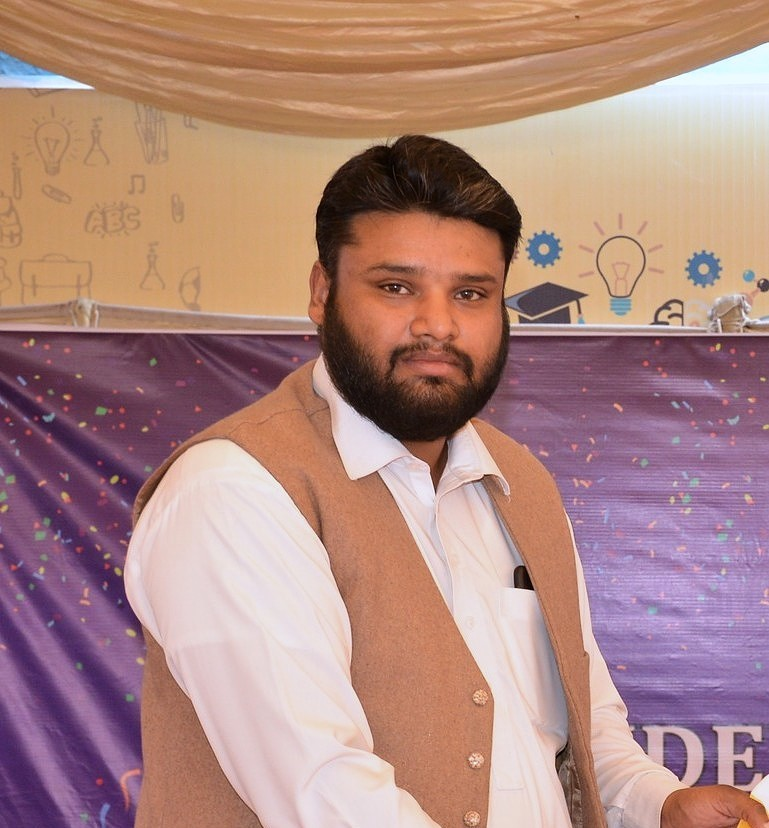
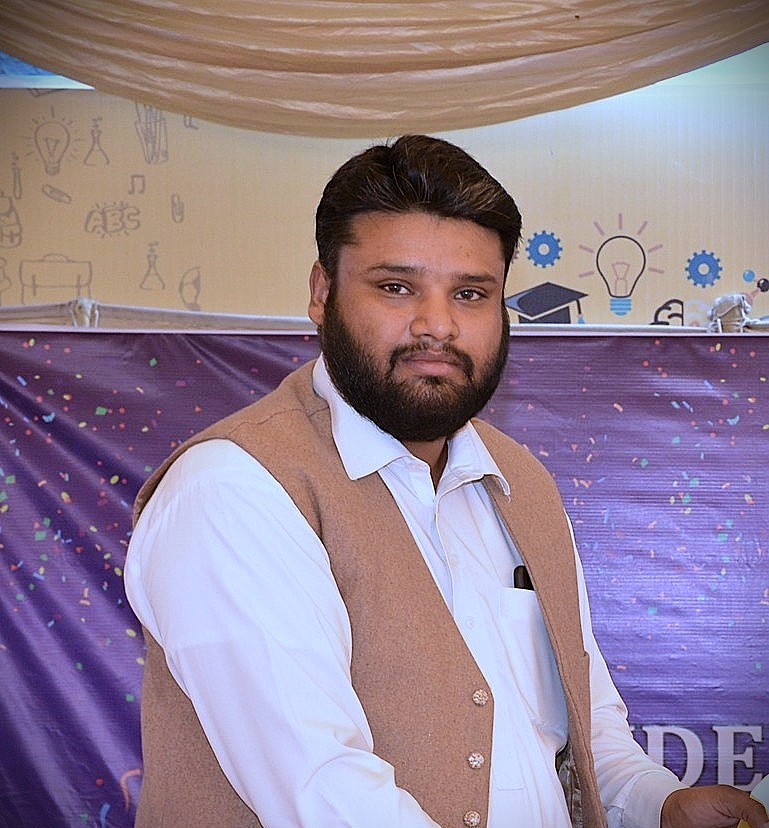
doneit

diff --git a/index.html b/index.html
@@ -106,7 +106,7 @@
                     </div>
                     <div class="about-image reveal">
                         <div class="img-wrapper">
-                            <img src="images/gallery_library_1773337756427.png" alt="Students studying in library"
+                            <img src="images/now.jpg" alt="Students studying in library"
                                 class="rounded-img shadow-hover">
                             <div class="experience-badge bounce-anim">
                                 <span class="badge-num"><span class="counter-val" data-target="25">25</span>+</span>

diff --git a/js/script.js b/js/script.js
@@ -195,7 +195,7 @@ document.addEventListener('DOMContentLoaded', () => {
         const hidePopup = () => {
             developerPopup.classList.remove('show');
             // Show again after 10 seconds
-            popupTimer = setTimeout(showPopup, 10000);
+            popupTimer = setTimeout(showPopup, 30000);
         };
 
         // Start the initial cycle after 2.5 seconds

diff --git a/css/style.css b/css/style.css
@@ -182,10 +182,10 @@ img {
 /* Hero Section */
 .hero {
   position: relative;
-  min-height: 100vh;
+  min-height: 120vh;
   display: flex;
   align-items: center;
-  background-image: url('../images/hero_campus_1773337733687.png');
+  background-image: url('../images/e5.jpg');
   background-size: cover;
   background-position: center;
   background-attachment: fixed;
